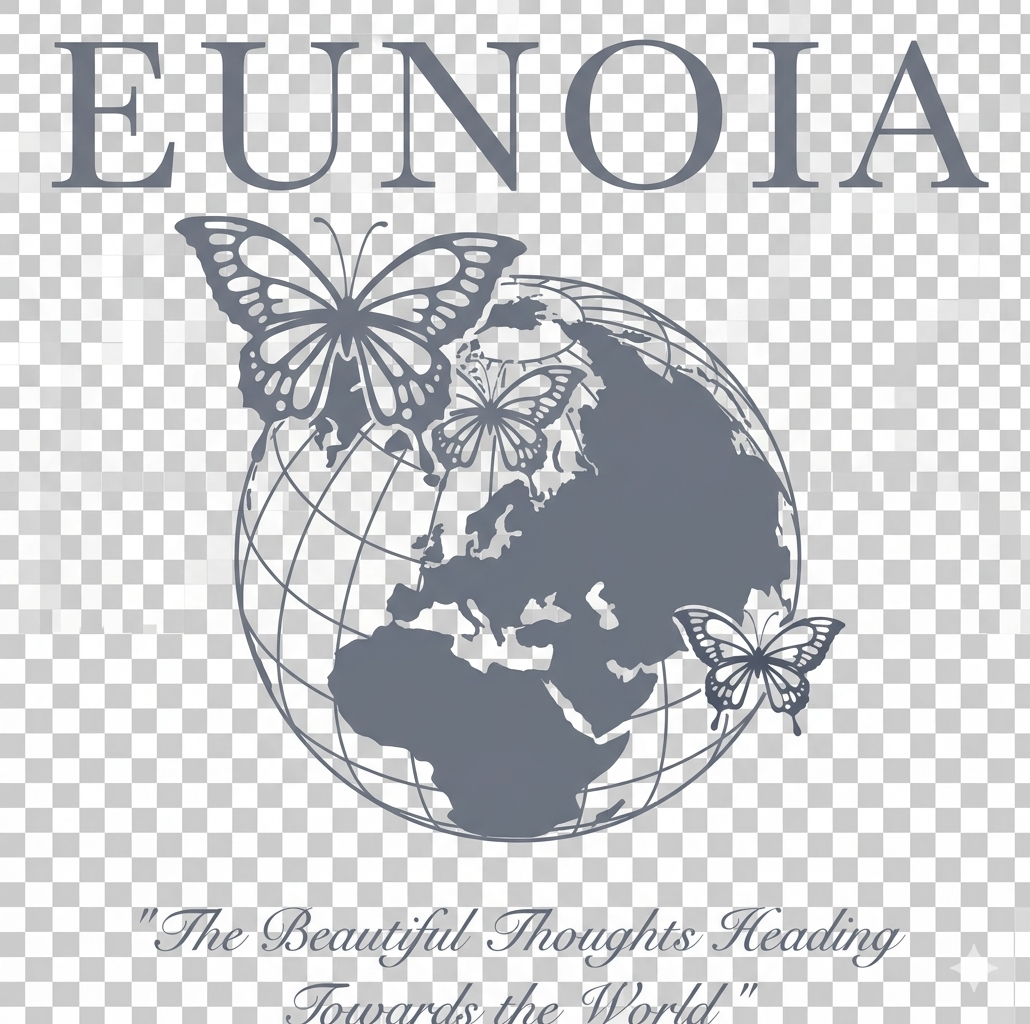
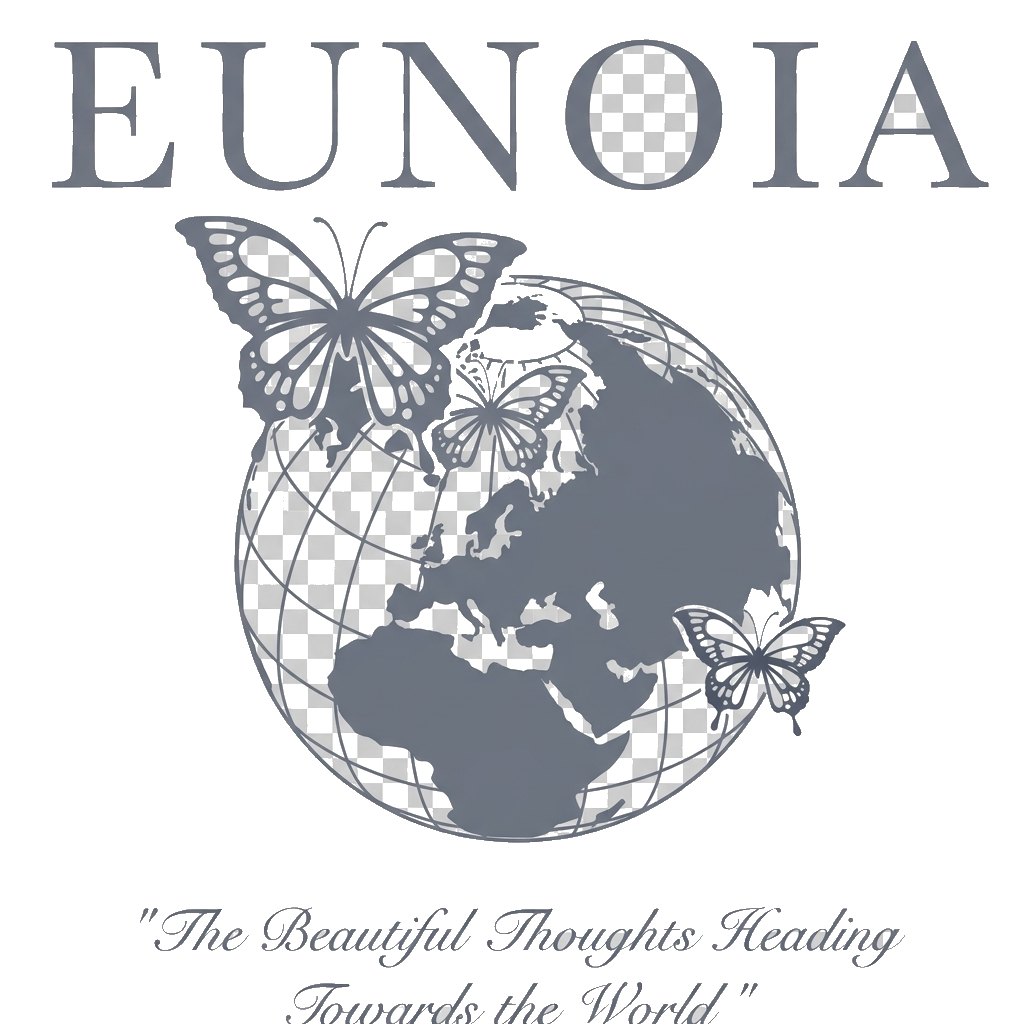
feat: 동아리 로고 배경 제거 및 그레이스케일 통일

diff --git a/components/main/LogoMarquee.tsx b/components/main/LogoMarquee.tsx
@@ -2,18 +2,18 @@
 import Image from 'next/image';
 
 const CLUBS = [
-  { src: '/clubs/dcn.png',               alt: 'DCN',               invertOnLight: true  },
-  { src: '/clubs/doyl.png',              alt: 'DOYL',              invertOnLight: false },
-  { src: '/clubs/flow-communicators.png',alt: 'Flow Communicators',invertOnLight: false },
-  { src: '/clubs/nalssam.png',           alt: 'NALSSAM',           invertOnLight: false },
-  { src: '/clubs/one-press.png',         alt: 'ONE-PRESS',         invertOnLight: true  },
-  { src: '/clubs/path-finder.png',       alt: 'Path Finder',       invertOnLight: false },
-  { src: '/clubs/inspire.png',           alt: 'Inspire',           invertOnLight: false },
-  { src: '/clubs/gyojiphap.png',         alt: '교집합',             invertOnLight: false },
-  { src: '/clubs/eunoia.png',            alt: 'EUNOIA',            invertOnLight: false },
-  { src: '/clubs/right-us.png',          alt: 'Right-us',          invertOnLight: false },
-  { src: '/clubs/unify.png',             alt: 'UNIFY',             invertOnLight: false },
-  { src: '/clubs/link.png',              alt: 'L-INK',             invertOnLight: false },
+  { src: '/clubs/dcn.png',               alt: 'DCN' },
+  { src: '/clubs/doyl.png',              alt: 'DOYL' },
+  { src: '/clubs/flow-communicators.png',alt: 'Flow Communicators' },
+  { src: '/clubs/nalssam.png',           alt: 'NALSSAM' },
+  { src: '/clubs/one-press.png',         alt: 'ONE-PRESS' },
+  { src: '/clubs/path-finder.png',       alt: 'Path Finder' },
+  { src: '/clubs/inspire.png',           alt: 'Inspire' },
+  { src: '/clubs/gyojiphap.png',         alt: '교집합' },
+  { src: '/clubs/eunoia.png',            alt: 'EUNOIA' },
+  { src: '/clubs/right-us.png',          alt: 'Right-us' },
+  { src: '/clubs/unify.png',             alt: 'UNIFY' },
+  { src: '/clubs/link.png',              alt: 'L-INK' },
 ];
 
 const ALL_CLUBS = [...CLUBS, ...CLUBS];
@@ -43,7 +43,7 @@ export default function LogoMarquee() {
                 width={96}
                 height={64}
                 unoptimized
-                className={`object-contain w-full h-full${club.invertOnLight ? ' invert dark:invert-0' : ''}`}
+                className="object-contain w-full h-full club-logo"
                 draggable={false}
               />
             </div>

diff --git a/app/globals.css b/app/globals.css
@@ -132,3 +132,11 @@ body {
 .dark ::selection {
   background-color: rgba(241, 196, 15, 0.25);
 }
+
+/* 동아리 로고 — 배경 투명화 후 그레이스케일 적용 H */
+.club-logo {
+  filter: grayscale(100%) opacity(0.65);
+}
+.dark .club-logo {
+  filter: grayscale(100%) invert(1) opacity(0.75);
+}
